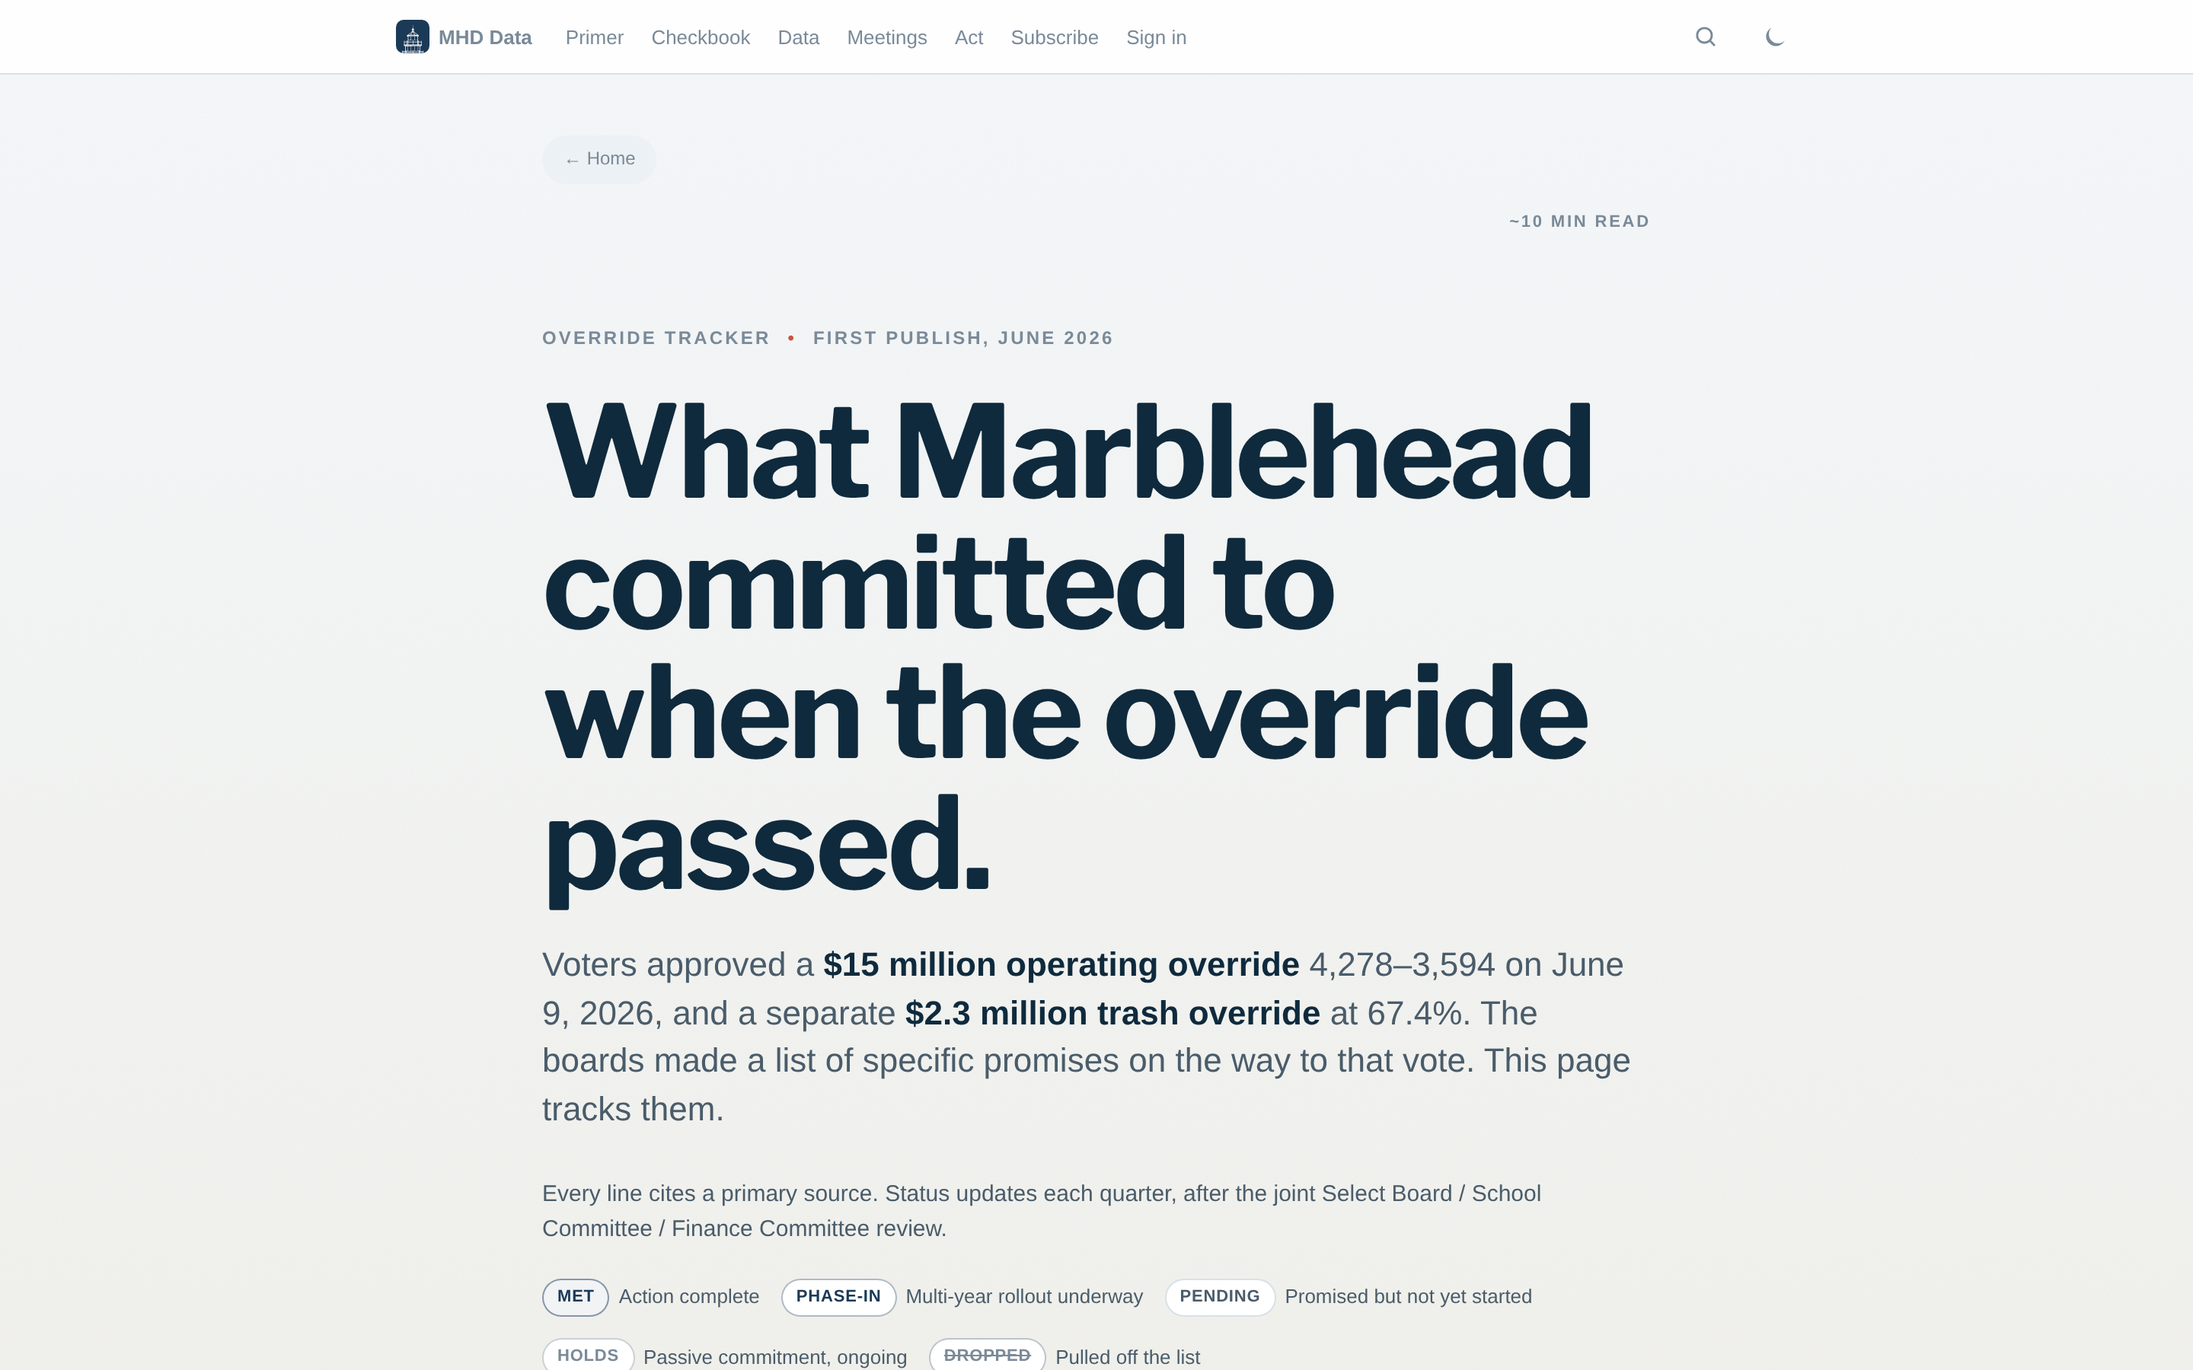
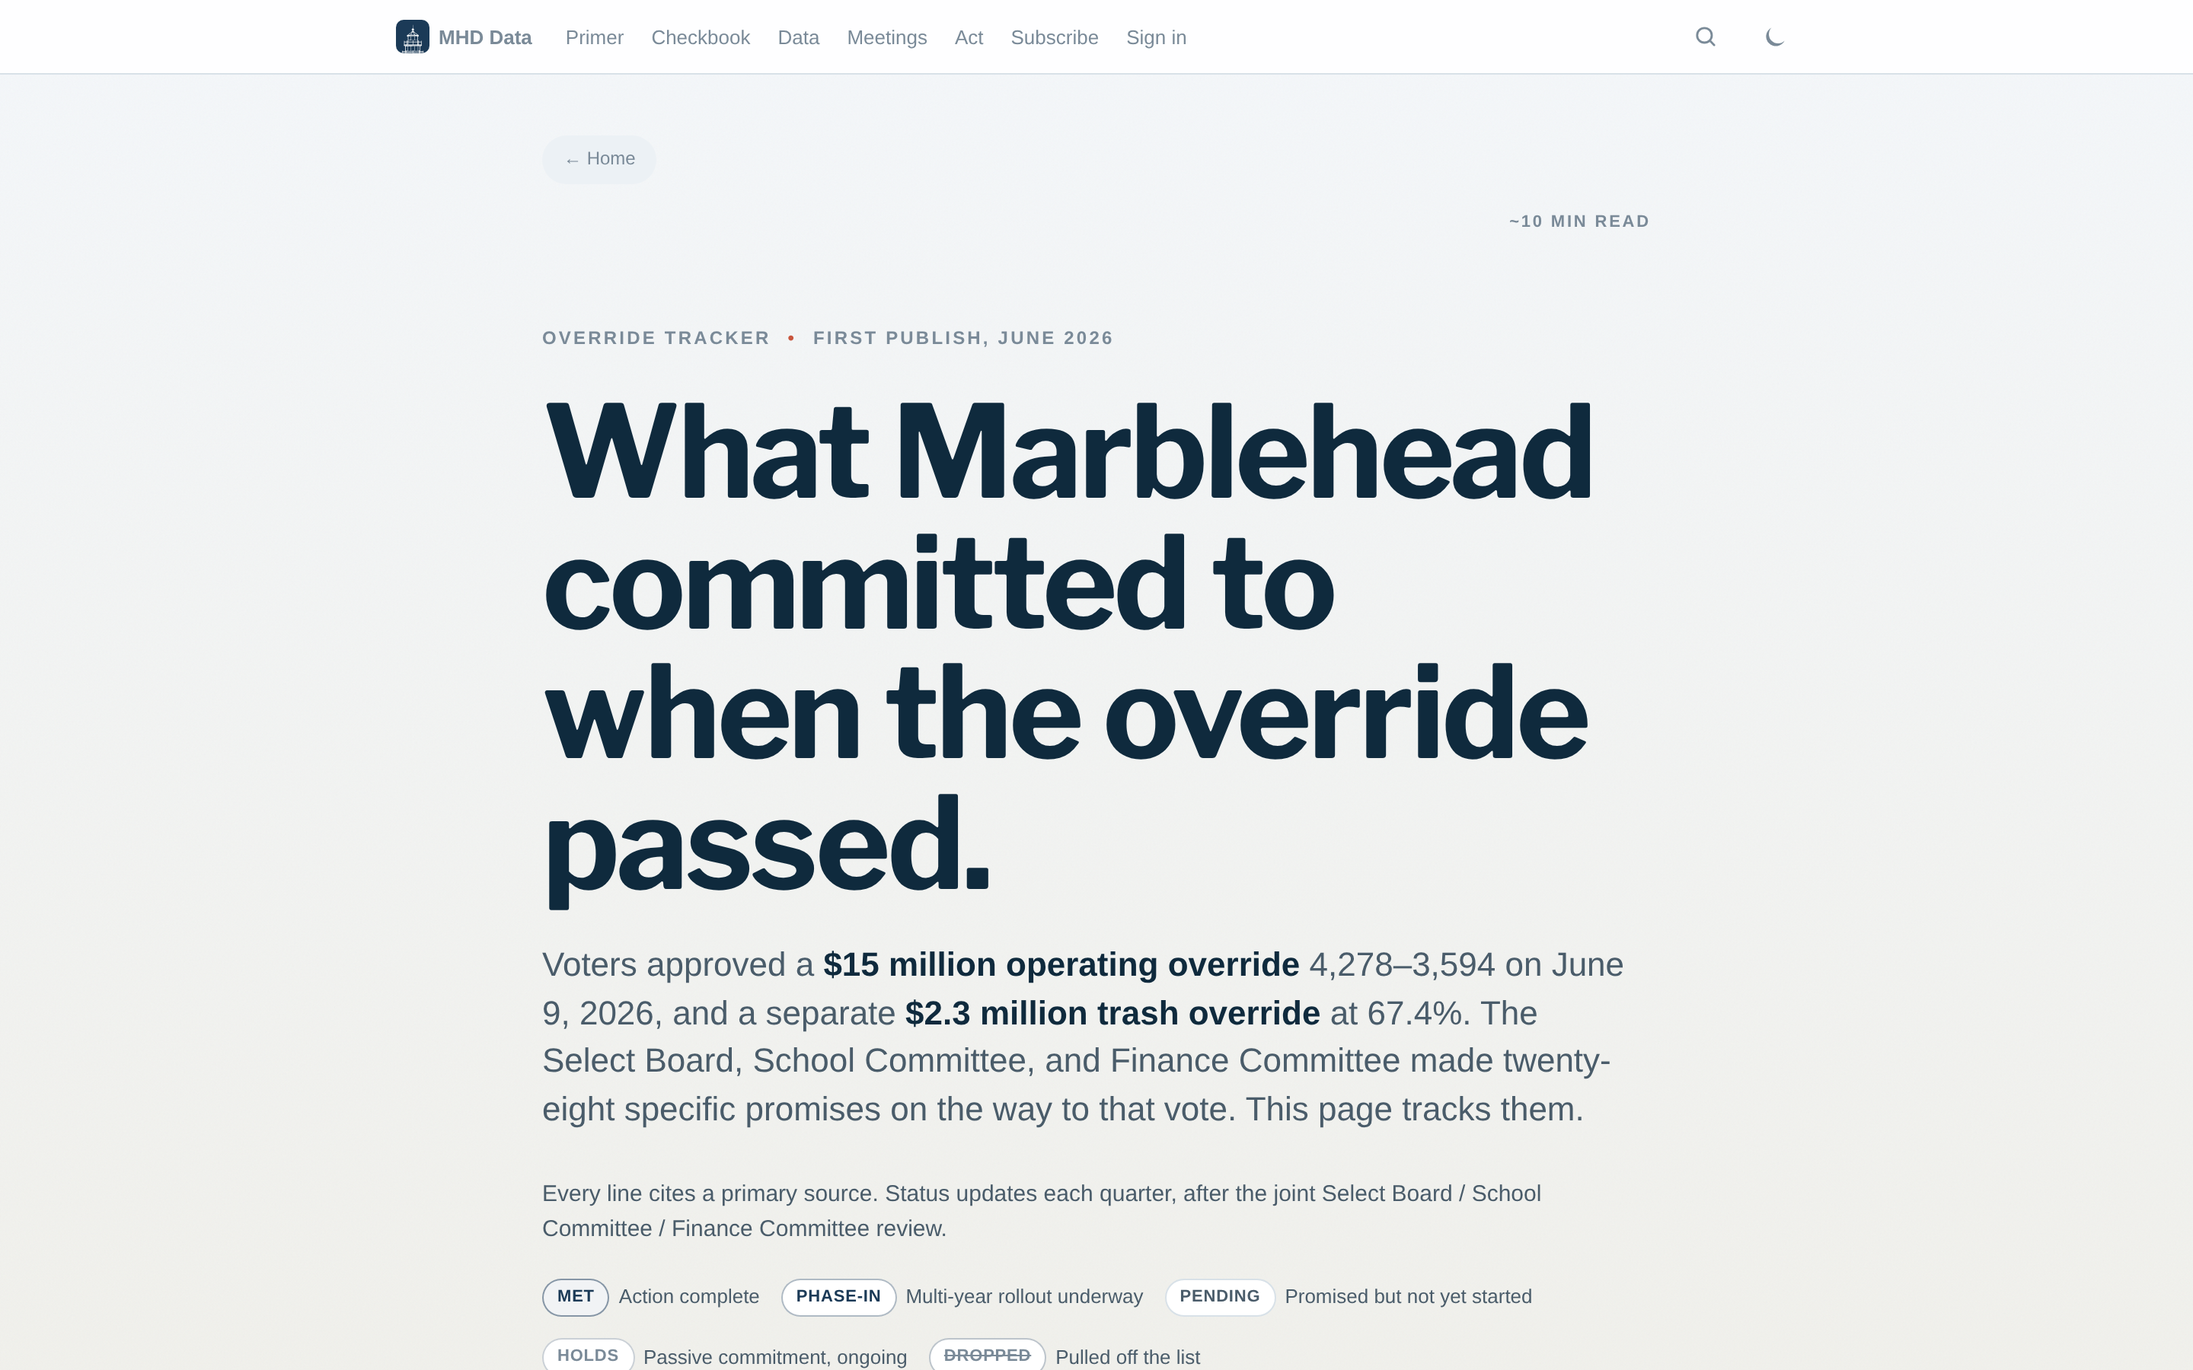
Trim override tracker: drop ballot-result rows and FTE summary
Removed three rows that didn't earn their place in a commitments tracker:
- "$15M override approved at the ballot" — the precondition, not a commitment
- "$2.3M trash override approved" — same
- "28 total FTEs committed" — a summary stat that duplicates the
  individual department rows in Section C

The hero already names the ballot result; no need to re-render it as a
trivially-met tracker card. The 28-FTE framing is preserved in the
Section C lead.

Tracker now lists 28 commitments (down from 31), renumbered sequentially.
"Met" is still in the legend for future quarterly updates.

Generated with [Claude Code](https://claude.ai/code)
via [Happy](https://happy.engineering)

Changed region(s): [[0.25, 0.7467, 0.75, 0.84]]

diff --git a/override-tracker.html b/override-tracker.html
@@ -1,7 +1,7 @@
 ---
 title: "Override tracker"
 og_title: "Marblehead override tracker: what the town committed to"
-og_description: "Thirty-one named commitments tied to the $15M operating override and $2.3M trash override approved June 9, 2026. Updated quarterly. Every line traces to a primary source."
+og_description: "Twenty-eight named commitments the Select Board, School Committee, and Finance Committee made on the way to the $15M override that passed June 9, 2026. Updated quarterly. Every line traces to a primary source."
 og_url: https://marbleheaddata.org/override-tracker.html
 sitemap: false
 scripts: [citations]
@@ -246,7 +246,7 @@ scripts: [citations]
 <section class="tk-hero">
   <p class="tk-eye">Override tracker <span class="dot">&bull;</span> First publish, June 2026</p>
   <h1>What Marblehead committed to when the override passed.</h1>
-  <p class="tk-hero-sub">Voters approved a <strong>$15 million operating override</strong> 4,278&ndash;3,594 on June 9, 2026, and a separate <strong>$2.3 million trash override</strong> at 67.4%. The boards made a list of specific promises on the way to that vote. This page tracks them.</p>
+  <p class="tk-hero-sub">Voters approved a <strong>$15 million operating override</strong> 4,278&ndash;3,594 on June 9, 2026, and a separate <strong>$2.3 million trash override</strong> at 67.4%. The Select Board, School Committee, and Finance Committee made twenty-eight specific promises on the way to that vote. This page tracks them.</p>
 
   <p class="tk-section-lead" style="font-size:15px;">Every line cites a primary source. Status updates each quarter, after the joint Select Board / School Committee / Finance Committee review.</p>
 
@@ -269,29 +269,9 @@ scripts: [citations]
 
   <div class="tk-grid">
 
-    <article class="tk-card" data-status="met">
-      <header class="tk-card-h">
-        <span class="tk-card-num">01</span>
-        <h3 class="tk-card-title">$15M operating override approved at the ballot</h3>
-        <span class="tk-status" data-s="met">Met</span>
-      </header>
-      <p class="tk-card-body">Question 3 (Tier 3 &ldquo;Invest&rdquo;) carried 4,278&ndash;3,594 (54.3%&ndash;45.7%) on June 9, 2026. Questions 1 and 2 also carried but were superseded.</p>
-      <p class="tk-card-src">Source: <a href="https://www.marbleheadindependent.com/marblehead-voters-approve-15m-override-ending-more-than-two-decades-of-resistance/">Marblehead Independent, June 9 2026</a>.</p>
-    </article>
-
-    <article class="tk-card" data-status="met">
-      <header class="tk-card-h">
-        <span class="tk-card-num">02</span>
-        <h3 class="tk-card-title">$2.3M trash override approved at the ballot</h3>
-        <span class="tk-status" data-s="met">Met</span>
-      </header>
-      <p class="tk-card-body">Question 4 carried with 67.4% support, funding curbside trash, recycling, yard waste, and disposal services through the levy.</p>
-      <p class="tk-card-src">Source: <a href="https://www.marbleheadindependent.com/marblehead-voters-approve-15m-override-ending-more-than-two-decades-of-resistance/">Marblehead Independent, June 9 2026</a>.</p>
-    </article>
-
     <article class="tk-card" data-status="phase-in">
       <header class="tk-card-h">
-        <span class="tk-card-num">03</span>
+        <span class="tk-card-num">01</span>
         <h3 class="tk-card-title">$6.5M allocated to municipal services</h3>
         <span class="tk-status" data-s="phase-in">Phase-in</span>
       </header>
@@ -301,7 +281,7 @@ scripts: [citations]
 
     <article class="tk-card" data-status="phase-in">
       <header class="tk-card-h">
-        <span class="tk-card-num">04</span>
+        <span class="tk-card-num">02</span>
         <h3 class="tk-card-title">$8.5M allocated to schools</h3>
         <span class="tk-status" data-s="phase-in">Phase-in</span>
       </header>
@@ -311,7 +291,7 @@ scripts: [citations]
 
     <article class="tk-card" data-status="phase-in">
       <header class="tk-card-h">
-        <span class="tk-card-num">05</span>
+        <span class="tk-card-num">03</span>
         <h3 class="tk-card-title">~$4.3M phased into Year 1 (FY27) under Article 29</h3>
         <span class="tk-status" data-s="phase-in">Phase-in</span>
       </header>
@@ -321,7 +301,7 @@ scripts: [citations]
 
     <article class="tk-card" data-status="pending">
       <header class="tk-card-h">
-        <span class="tk-card-num">06</span>
+        <span class="tk-card-num">04</span>
         <h3 class="tk-card-title">Articulate where the remaining $9.6M goes</h3>
         <span class="tk-status" data-s="pending">Pending</span>
       </header>
@@ -344,7 +324,7 @@ scripts: [citations]
 
     <article class="tk-card" data-status="holds">
       <header class="tk-card-h">
-        <span class="tk-card-num">07</span>
+        <span class="tk-card-num">05</span>
         <h3 class="tk-card-title">No new override pursued at least through FY2030</h3>
         <span class="tk-status" data-s="holds">Holds</span>
       </header>
@@ -354,7 +334,7 @@ scripts: [citations]
 
     <article class="tk-card" data-status="holds">
       <header class="tk-card-h">
-        <span class="tk-card-num">08</span>
+        <span class="tk-card-num">06</span>
         <h3 class="tk-card-title">62%&ndash;38% unrestricted-revenue split formalized</h3>
         <span class="tk-status" data-s="holds">Holds</span>
       </header>
@@ -364,7 +344,7 @@ scripts: [citations]
 
     <article class="tk-card" data-status="phase-in">
       <header class="tk-card-h">
-        <span class="tk-card-num">09</span>
+        <span class="tk-card-num">07</span>
         <h3 class="tk-card-title">Quarterly joint financial reviews</h3>
         <span class="tk-status" data-s="phase-in">Phase-in</span>
       </header>
@@ -374,7 +354,7 @@ scripts: [citations]
 
     <article class="tk-card" data-status="pending">
       <header class="tk-card-h">
-        <span class="tk-card-num">10</span>
+        <span class="tk-card-num">08</span>
         <h3 class="tk-card-title">Phase out Free Cash to balance the budget</h3>
         <span class="tk-status" data-s="pending">Pending</span>
       </header>
@@ -384,7 +364,7 @@ scripts: [citations]
 
     <article class="tk-card" data-status="pending">
       <header class="tk-card-h">
-        <span class="tk-card-num">11</span>
+        <span class="tk-card-num">09</span>
         <h3 class="tk-card-title">Build Stabilization Fund to 5% of operating budget</h3>
         <span class="tk-status" data-s="pending">Pending</span>
       </header>
@@ -401,23 +381,13 @@ scripts: [citations]
 <section class="tk-stop">
   <p class="tk-eye">Section C <span class="dot">&bull;</span> Municipal restorations and additions</p>
   <h2 class="tk-section-h2">28 staff positions and named program commitments.</h2>
-  <p class="tk-section-lead">Tier 3 covers 15 restored positions (Tier 1), 7 new positions (Tier 2), and 6 additional new positions (Tier 3 add-ons) &mdash; 28 FTEs total. Specific named items below.</p>
+  <p class="tk-section-lead">Tier 3 covers 15 restored positions (Tier 1), 7 new positions (Tier 2), and 6 additional new positions (Tier 3 add-ons) &mdash; 28 FTEs total. The named items below are the testable pieces of that count.</p>
 
   <div class="tk-grid">
 
     <article class="tk-card" data-status="pending">
       <header class="tk-card-h">
-        <span class="tk-card-num">12</span>
-        <h3 class="tk-card-title">28 total FTEs committed across the three tiers</h3>
-        <span class="tk-status" data-s="pending">Pending</span>
-      </header>
-      <p class="tk-card-body">15 restored (Tier 1) + 7 new (Tier 2) + 6 new (Tier 3). FTE summary printed in the April 15 deck.</p>
-      <p class="tk-card-src">Source: <a href="/data/2026-04-15_Override_Presentation_FINAL.txt">April 15, 2026 override presentation</a>, FTE summary row.</p>
-    </article>
-
-    <article class="tk-card" data-status="pending">
-      <header class="tk-card-h">
-        <span class="tk-card-num">13</span>
+        <span class="tk-card-num">10</span>
         <h3 class="tk-card-title">Library: full restoration and accreditation preserved</h3>
         <span class="tk-status" data-s="pending">Pending</span>
       </header>
@@ -427,7 +397,7 @@ scripts: [citations]
 
     <article class="tk-card" data-status="pending">
       <header class="tk-card-h">
-        <span class="tk-card-num">14</span>
+        <span class="tk-card-num">11</span>
         <h3 class="tk-card-title">Police: SRO restored, force grows from 29 to 33 officers</h3>
         <span class="tk-status" data-s="pending">Pending</span>
       </header>
@@ -437,7 +407,7 @@ scripts: [citations]
 
     <article class="tk-card" data-status="pending">
       <header class="tk-card-h">
-        <span class="tk-card-num">15</span>
+        <span class="tk-card-num">12</span>
         <h3 class="tk-card-title">Fire: +4 firefighters added across Tiers 2 and 3</h3>
         <span class="tk-status" data-s="pending">Pending</span>
       </header>
@@ -447,7 +417,7 @@ scripts: [citations]
 
     <article class="tk-card" data-status="pending">
       <header class="tk-card-h">
-        <span class="tk-card-num">16</span>
+        <span class="tk-card-num">13</span>
         <h3 class="tk-card-title">DPW: full restoration plus 4 new positions</h3>
         <span class="tk-status" data-s="pending">Pending</span>
       </header>
@@ -457,7 +427,7 @@ scripts: [citations]
 
     <article class="tk-card" data-status="pending">
       <header class="tk-card-h">
-        <span class="tk-card-num">17</span>
+        <span class="tk-card-num">14</span>
         <h3 class="tk-card-title">Public Buildings: 2 custodians and a $450K maintenance budget</h3>
         <span class="tk-status" data-s="pending">Pending</span>
       </header>
@@ -467,7 +437,7 @@ scripts: [citations]
 
     <article class="tk-card" data-status="pending">
       <header class="tk-card-h">
-        <span class="tk-card-num">18</span>
+        <span class="tk-card-num">15</span>
         <h3 class="tk-card-title">Community Development: Director plus Assistant Planner, Conservation Agent, Grant Writer</h3>
         <span class="tk-status" data-s="pending">Pending</span>
       </header>
@@ -477,7 +447,7 @@ scripts: [citations]
 
     <article class="tk-card" data-status="pending">
       <header class="tk-card-h">
-        <span class="tk-card-num">19</span>
+        <span class="tk-card-num">16</span>
         <h3 class="tk-card-title">Mental health: $60K counseling investment via Health Department</h3>
         <span class="tk-status" data-s="pending">Pending</span>
       </header>
@@ -487,7 +457,7 @@ scripts: [citations]
 
     <article class="tk-card" data-status="pending">
       <header class="tk-card-h">
-        <span class="tk-card-num">20</span>
+        <span class="tk-card-num">17</span>
         <h3 class="tk-card-title">$1M recurring annual capital investment</h3>
         <span class="tk-status" data-s="pending">Pending</span>
       </header>
@@ -510,7 +480,7 @@ scripts: [citations]
 
     <article class="tk-card" data-status="phase-in">
       <header class="tk-card-h">
-        <span class="tk-card-num">21</span>
+        <span class="tk-card-num">18</span>
         <h3 class="tk-card-title">Maintain existing school staff (Tier 1)</h3>
         <span class="tk-status" data-s="phase-in">Phase-in</span>
       </header>
@@ -520,7 +490,7 @@ scripts: [citations]
 
     <article class="tk-card" data-status="phase-in">
       <header class="tk-card-h">
-        <span class="tk-card-num">22</span>
+        <span class="tk-card-num">19</span>
         <h3 class="tk-card-title">SPED out-of-district obligations funded through FY29 (Tier 1)</h3>
         <span class="tk-status" data-s="phase-in">Phase-in</span>
       </header>
@@ -530,7 +500,7 @@ scripts: [citations]
 
     <article class="tk-card" data-status="pending">
       <header class="tk-card-h">
-        <span class="tk-card-num">23</span>
+        <span class="tk-card-num">20</span>
         <h3 class="tk-card-title">Full-day kindergarten (Tier 2)</h3>
         <span class="tk-status" data-s="pending">Pending</span>
       </header>
@@ -540,7 +510,7 @@ scripts: [citations]
 
     <article class="tk-card" data-status="pending">
       <header class="tk-card-h">
-        <span class="tk-card-num">24</span>
+        <span class="tk-card-num">21</span>
         <h3 class="tk-card-title">Recurring school building capital fund (Tier 3)</h3>
         <span class="tk-status" data-s="pending">Pending</span>
       </header>
@@ -550,7 +520,7 @@ scripts: [citations]
 
     <article class="tk-card" data-status="pending">
       <header class="tk-card-h">
-        <span class="tk-card-num">25</span>
+        <span class="tk-card-num">22</span>
         <h3 class="tk-card-title">In-district 18&ndash;22 special education program (Tier 3)</h3>
         <span class="tk-status" data-s="pending">Pending</span>
       </header>
@@ -573,7 +543,7 @@ scripts: [citations]
 
     <article class="tk-card" data-status="pending">
       <header class="tk-card-h">
-        <span class="tk-card-num">26</span>
+        <span class="tk-card-num">23</span>
         <h3 class="tk-card-title">First quarterly financial review in early October 2026</h3>
         <span class="tk-status" data-s="pending">Pending</span>
       </header>
@@ -583,7 +553,7 @@ scripts: [citations]
 
     <article class="tk-card" data-status="pending">
       <header class="tk-card-h">
-        <span class="tk-card-num">27</span>
+        <span class="tk-card-num">24</span>
         <h3 class="tk-card-title">Develop a written accountability plan</h3>
         <span class="tk-status" data-s="pending">Pending</span>
       </header>
@@ -593,7 +563,7 @@ scripts: [citations]
 
     <article class="tk-card" data-status="pending">
       <header class="tk-card-h">
-        <span class="tk-card-num">28</span>
+        <span class="tk-card-num">25</span>
         <h3 class="tk-card-title">Develop a communication strategy and public cadence</h3>
         <span class="tk-status" data-s="pending">Pending</span>
       </header>
@@ -603,7 +573,7 @@ scripts: [citations]
 
     <article class="tk-card" data-status="pending">
       <header class="tk-card-h">
-        <span class="tk-card-num">29</span>
+        <span class="tk-card-num">26</span>
         <h3 class="tk-card-title">Implement GFOA budget module to link departmental strategy to numbers</h3>
         <span class="tk-status" data-s="pending">Pending</span>
       </header>
@@ -613,7 +583,7 @@ scripts: [citations]
 
     <article class="tk-card" data-status="pending">
       <header class="tk-card-h">
-        <span class="tk-card-num">30</span>
+        <span class="tk-card-num">27</span>
         <h3 class="tk-card-title">Continue cost-cutting and efficiency work alongside the override</h3>
         <span class="tk-status" data-s="pending">Pending</span>
       </header>
@@ -623,7 +593,7 @@ scripts: [citations]
 
     <article class="tk-card" data-status="pending">
       <header class="tk-card-h">
-        <span class="tk-card-num">31</span>
+        <span class="tk-card-num">28</span>
         <h3 class="tk-card-title">Expand the Select Board / School Committee collaboration model to other boards</h3>
         <span class="tk-status" data-s="pending">Pending</span>
       </header>
